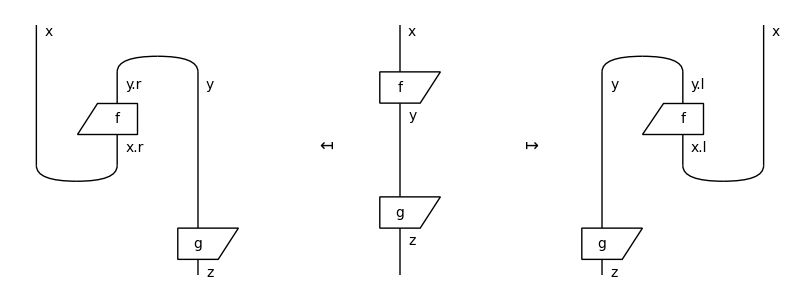
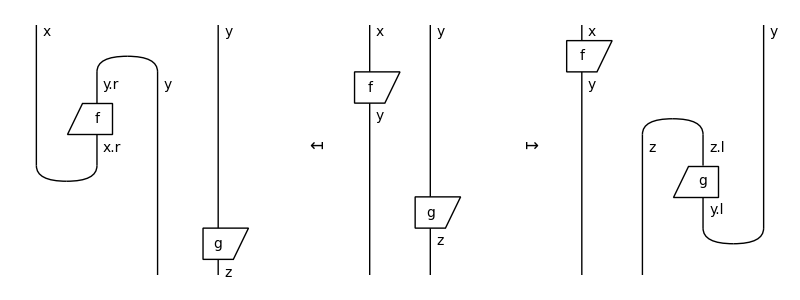
better layers WIP

diff --git a/discopy/rigid.py b/discopy/rigid.py
@@ -171,6 +171,25 @@ class PRO(monoidal.PRO, Ty):
     l = r = property(lambda self: self)
 
 
+class Layer(monoidal.Layer):
+    """
+    A rigid layer is a monoidal layer that can be rotated.
+
+    Parameters:
+        left : The type on the left of the layer.
+        box : The box in the middle of the layer.
+        right : The type on the right of the layer.
+        more : More boxes and types to the right,
+               used by :meth:`Diagram.foliation`.
+    """
+    def rotate(self, left=False):
+        return type(self)(*(x.l if left else x.r for x in list(self)[::-1]))
+
+    l = property(lambda self: self.rotate(left=True))
+    r = property(lambda self: self.rotate(left=False))
+
+
+
 @factory
 class Diagram(closed.Diagram):
     """
@@ -196,6 +215,7 @@ class Diagram(closed.Diagram):
     __ambiguous_inheritance__ = True
 
     ty_factory = Ty
+    layer_factory = Layer
 
     def dagger(self):
         """
@@ -304,12 +324,9 @@ class Diagram(closed.Diagram):
         .. image:: /imgs/rigid/rotate.png
             :align: center
         """
-        dom, cod = (
-            getattr(x, 'l' if left else 'r') for x in (self.cod, self.dom))
+        dom, cod = (x.l if left else x.r for x in (self.cod, self.dom))
         inside = tuple(
-            self.layer_factory(right.l, box.l, _left.l) if left
-            else self.layer_factory(right.r, box.r, _left.r)
-            for _left, box, right in self.inside[::-1])
+            layer.l if left else layer.r for layer in self.inside[::-1])
         return self.factory(inside, dom, cod)
 
     l = property(lambda self: self.rotate(left=True))
@@ -341,31 +358,40 @@ class Diagram(closed.Diagram):
             >> self.dom.r @ self @ self.cod.r\
             >> self.dom.r @ self.cups(self.cod, self.cod.r)
 
-    def transpose_box(self, i, left=False):
+    def transpose_box(self, i, j=0, left=False):
         """
         Transpose the box at index ``i``.
 
         Parameters:
-            i : The index of the box to transpose.
+            i : The vertical index of the box to transpose.
+            j : The horizontal index of the box to transpose, only needed if
+                the layer ``i`` has more than one box.
             left : Whether to transpose left or right.
 
         Example
         -------
         >>> from discopy.drawing import Equation
-        >>> x, y, z = map(Ty, "xyz")
+        >>> x, y, z = Ty(*"xyz")
         >>> f, g = Box('f', x, y), Box('g', y, z)
-        >>> d = f >> g
-        >>> transpose_l = d.transpose_box(0, left=True)
-        >>> transpose_r = d.transpose_box(0, left=False)
+        >>> d = (f @ g).foliation()
+        >>> transpose_l = d.transpose_box(0, 0, left=True)
+        >>> transpose_r = d.transpose_box(0, 1, left=False)
         >>> LHS = Equation(transpose_l, d, symbol="$\\\\mapsfrom$")
         >>> RHS = Equation(LHS, transpose_r, symbol="$\\\\mapsto$")
         >>> RHS.draw(figsize=(8, 3), path="docs/imgs/rigid/transpose_box.png")
 
         .. image:: /imgs/rigid/transpose_box.png
         """
-        _left, box, right = self.inside[i]
+        box = list(self.inside[i])[2 * j + 1]
         transposed_box = (box.r if left else box.l).transpose(left)
-        return self[:i] >> _left @ transposed_box @ right >> self[i + 1:]
+        top, bottom = self[:i], self[i + 1:]
+        left_boxes_and_types = list(self.inside[i])[:2 * j + 1]
+        right_boxes_and_types = list(self.inside[i])[2 * j + 2:]
+        left_layer, right_layer = [
+            self.id().tensor(
+                *(x if k % 2 else self.id(x) for k, x in enumerate(xs)))
+            for xs in [left_boxes_and_types, right_boxes_and_types]]
+        return top >> left_layer @ transposed_box @ right_layer >> bottom
 
     def draw(self, asymmetry=.25, **params):
         return super().draw(**dict(dict(asymmetry=asymmetry), **params))

diff --git a/discopy/monoidal.py b/discopy/monoidal.py
@@ -312,10 +312,7 @@ class Layer(cat.Box):
 
     def __matmul__(self, other: Ty) -> Layer:
         *tail, head = self
-        boxes_and_types = tail + (
-            [head @ other] if isinstance(other, Ty)
-            else [head, other.dom[:0], other])
-        return type(self)(*boxes_and_types)
+        return type(self)(*tail + [head @ other])
 
     def __rmatmul__(self, other: Ty) -> Layer:
         head, *tail = self
@@ -380,6 +377,13 @@ class Layer(cat.Box):
         >>> layer0 = Layer(e,  f,  e @ c @ e)
         >>> layer1 = Layer(e @ b @ e,  g,  e)
         >>> assert layer0.merge(layer1) == Layer(e, f, e, g, e)
+
+        >>> x = Ty('x')
+        >>> unit, counit = Box("unit", Ty(), x), Box("counit", x, Ty())
+        >>> cup, cap = Box("cup", x @ x, Ty()), Box("cap", Ty(), x @ x)
+        >>> d = unit >> cap @ x >> x @ cap @ x @ x\\
+        ...     >> x @ x @ counit @ x @ x >> x @ cup @ x >> cup
+        >>> d.inside[0].merge(d.inside[1])
         """
         assert_iscomposable(self, other)
         scan, boxes_or_types = 0, []
@@ -391,13 +395,14 @@ class Layer(cat.Box):
                     messages.NOT_MERGEABLE.format(self, other))
             boxes_or_types.append(self.dom[scan:offset])
             boxes_or_types.append(box)
-            scan = offset + len(box.dom)
+            scan = offset + len(box.cod)
         boxes_or_types.append(self.dom[scan:])
         return type(self)(*boxes_or_types)
 
     def lambdify(self, *symbols, **kwargs):
-        left, box, right = self
-        return lambda *xs: left @ box.lambdify(*symbols, **kwargs)(*xs) @ right
+        return lambda *xs: type(self)(*(
+            x.lambdify(*symbols, **kwargs)(*xs) if i % 2 else x
+            for i, x in enumerate(self)))
 
     def to_tree(self) -> dict:
         return dict(factory=factory_name(type(self)),

diff --git a/discopy/cat.py b/discopy/cat.py
@@ -289,7 +289,7 @@ class Arrow(Composable):
     def __getitem__(self, key):
         if isinstance(key, slice):
             if key.step == -1:
-                inside = tuple(box[::-1] for box in self.inside[key])
+                inside = tuple(box.dagger() for box in self.inside[key])
                 return self.factory(inside, self.cod, self.dom, _scan=False)
             if (key.step or 1) != 1:
                 raise IndexError
@@ -437,7 +437,8 @@ class Arrow(Composable):
         >>> assert (f >> g).subs(phi, 1) == f.subs(phi, 1) >> g
         >>> assert (f >> g).subs(psi, 1) == f >> g.subs(psi, 1)
         """
-        return Functor(ob=lambda x: x, ar=lambda f: f.subs(*args))(self)
+        inside = tuple(box.subs(*args) for box in self.inside)
+        return self.factory(inside, self.dom, self.cod)
 
     def lambdify(self, *symbols: "sympy.Symbol", **kwargs) -> Callable:
         """
@@ -456,8 +457,9 @@ class Arrow(Composable):
         >>> assert (f >> g).lambdify(phi, psi)(42, 43)\\
         ...     == Box('f', x, y, data=42) >> Box('g', y, z, data=43)
         """
-        return lambda *xs: self.id(self.dom).then(*(
-            box.lambdify(*symbols, **kwargs)(*xs) for box in self.inside))
+        return lambda *xs: self.factory(
+            dom=self.dom, cod=self.cod, inside=tuple(
+                box.lambdify(*symbols, **kwargs)(*xs) for box in self.inside))
 
     def to_tree(self) -> dict:
         """ See :func:`discopy.utils.dumps`. """

diff --git a/discopy/rewriting.py b/discopy/rewriting.py
@@ -263,6 +263,8 @@ def foliation(self):
     """
     Merges layers together to reduce the length of a diagram.
 
+    Example
+    -------
     >>> from discopy.monoidal import *
     >>> x, y = Ty('x'), Ty('y')
     >>> f0, f1 = Box('f0', x, y), Box('f1', y, x)
@@ -271,6 +273,12 @@ def foliation(self):
     f0 @ y >> f0[::-1] @ y >> x @ f1
     >>> print(diagram.foliation())
     f0 @ y >> f0[::-1] @ f1
+
+    Note
+    ----
+    If one defines a foliation as a sequence of unmergeable layers, in general
+    there may exist many distinct foliations for the same diagram. This method
+    scans top to bottom and merges layers eagerly.
     """
     while len(self) > 1:
         keep_on_going = False
@@ -291,7 +299,7 @@ def foliation(self):
 
 def depth(self):
     """
-    Computes the depth of a diagram by foliating it.
+    Computes (an upper bound to) the depth of a diagram by foliating it.
 
     Example
     -------
@@ -302,5 +310,10 @@ def depth(self):
     >>> assert f.depth() == 1
     >>> assert (f @ g).depth() == 1
     >>> assert (f >> g).depth() == 2
+
+    Note
+    ----
+    The actual depth of a diagram should be computed as the minimum length over
+    all its foliations, this method just outputs ``len(self.foliation())``.
     """
     return len(self.foliation())

diff --git a/discopy/drawing.py b/discopy/drawing.py
@@ -885,13 +885,10 @@ def pregroup_draw(words, layers, has_swaps=False, **params):
 def equation(*diagrams, path=None, symbol="=", space=1, **params):
     """ Draws an equation with multiple diagrams. """
     def height(diagram):
-        if hasattr(diagram, "terms"):  # i.e. if isinstance(diagram, Sum)
+        # i.e. if isinstance(diagram, (Sum, Equation))
+        if hasattr(diagram, "terms"):
             return max(height(d) for d in diagram.terms)
-        if hasattr(diagram, "arg"):  # i.e. if isinstance(diagram, Bubble)
-            return height(diagram.arg) + 2
-        if len(diagram) > 1:
-            return sum(height(d) for d in diagram.boxes)
-        return 1
+        return len(diagram.drawing()) or 1
 
     pad, max_height = params.get('pad', (0, 0)), max(map(height, diagrams))
     scale_x, scale_y = params.get('scale', (1, 1))

diff --git a/discopy/tensor.py b/discopy/tensor.py
@@ -484,7 +484,7 @@ class Diagram(frobenius.Diagram):
         """ Gradient with respect to :code:`var`. """
         if var not in self.free_symbols:
             return self.sum_factory((), self.dom, self.cod)
-        left, box, right, tail = tuple(self.layers[0]) + (self[1:], )
+        left, box, right, tail = tuple(self.inside[0]) + (self[1:], )
         t1 = self.id(left) @ box.grad(var, **params) @ self.id(right) >> tail
         t2 = self.id(left) @ box @ self.id(right) >> tail.grad(var, **params)
         return t1 + t2

diff --git a/test/syntax/monoidal.py b/test/syntax/monoidal.py
@@ -55,7 +55,7 @@ def test_PRO_repr():
 
 
 def test_PRO_str():
-    assert str(PRO(2 * 3 * 7)) == "42"
+    assert str(PRO(2 * 3 * 7)) == "PRO(42)"
 
 
 def test_PRO_getitem():
@@ -65,9 +65,9 @@ def test_PRO_getitem():
 
 def test_Diagram_init():
     with raises(TypeError) as err:
-        Diagram((), 'x', Ty('x'))
+        Diagram((), 1, Ty('x'))
     with raises(TypeError) as err:
-        Diagram((), Ty('x'), 'x')
+        Diagram((), Ty('x'), 1)
     with raises(TypeError) as err:
         Diagram((1, ), Ty('x'), Ty('x'))
 

diff --git a/test/syntax/cat.py b/test/syntax/cat.py
@@ -54,9 +54,9 @@ def test_Arrow():
 
 def test_Arrow_init():
     with raises(TypeError) as err:
-        Arrow((), 'x', Ob('x'))
+        Arrow((), 1, Ob('x'))
     with raises(TypeError) as err:
-        Arrow((), Ob('x'), 'x')
+        Arrow((), Ob('x'), 1)
     with raises(TypeError) as err:
         Arrow((Ob('x'), ), Ob('x'), Ob('x'))
 
